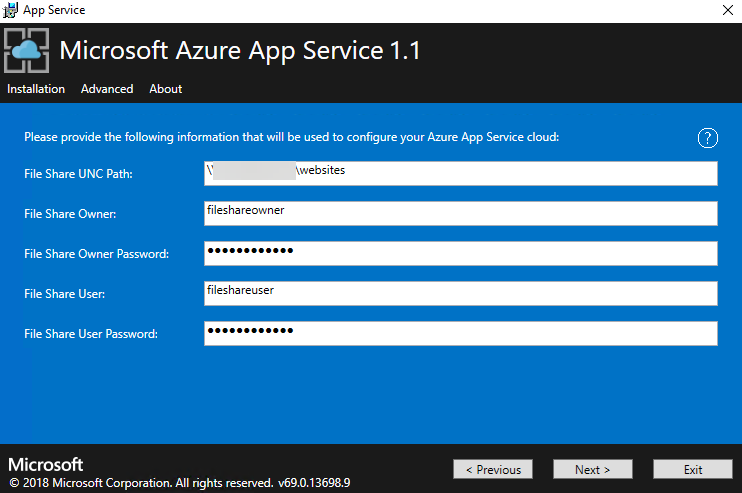
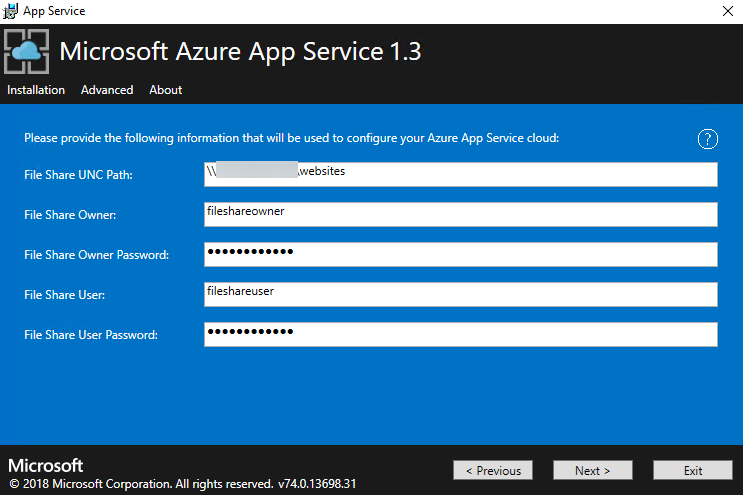
updates

diff --git a/Hands-on lab/HOL step-by-step - Azure Stack.md b/Hands-on lab/HOL step-by-step - Azure Stack.md
@@ -37,8 +37,9 @@ Microsoft and the trademarks listed at https://www.microsoft.com/en-us/legal/int
             - [Sub Task 2: Create App Service Scripts](#sub-task-2-create-app-service-scripts)
             - [Sub Task 3: Deploy Supporting File Server](#sub-task-3-deploy-supporting-file-server)
             - [Sub Task 4: Deploying a Supporting SQL Server](#sub-task-4-deploying-a-supporting-sql-server)
-            - [Sub Task 5: Setup Application Identity](#sub-task-5-setup-application-identity)
-            - [Sub Task 6: Install the App Service Resource Provider](#sub-task-6-install-the-app-service-resource-provider)
+            - [Sub Task 5: Enable Contained Database Authentication](#sub-task-5-enable-contained-database-authentication)
+            - [Sub Task 6: Setup Application Identity](#sub-task-6-setup-application-identity)
+            - [Sub Task 7: Install the App Service Resource Provider](#sub-task-7-install-the-app-service-resource-provider)
         - [Task 2: Deploy the Azure Stack SQL DB Resource Provider](#task-2-deploy-the-azure-stack-sql-db-resource-provider)
         - [Task 3: Create Azure Stack Deployment Taxonomy for Tenets](#task-3-create-azure-stack-deployment-taxonomy-for-tenets)
     - [Exercise 2: Deploy the SQL Hosting Server and DB on Azure Stack](#exercise-2-deploy-the-sql-hosting-server-and-db-on-azure-stack)
@@ -112,11 +113,6 @@ Duration: 2-3 hours
 
 In this exercise, you will configure the Azure Stack environment for the lab. You will install the resource providers for Azure SQL Database and Azure App Service, from there you will configure the taxonomy for the Azure Stack hands-on lab.
 
-    > **Tip**: To minimize prompts from PowerShell, set your execution policy to bypass.
-
-    ```
-    Set-ExecutionPolicy -ExecutionPolicy Bypass -Scope CurrentUser.
-    ```
 
 ### Task 1: Deploy the Azure Stack App Service Resource Provider
 
@@ -126,9 +122,9 @@ In this exercise, you will configure the Azure Stack environment for the lab. Yo
 
     ![Screenshot of Azure Stack Host File Explorer.](images/Hands-onlabstep-by-step-AzureStackimages/media/image24.png "Azure Stack Host File Explorer")
 
-The following screenshot shows the installer executable:
+    The following screenshot shows the installer executable:
 
-![In the Azure Stack Host File Explorer, a callout points to the AppService executable.](images/Hands-onlabstep-by-step-AzureStackimages/media/image25.png "Azure Stack Host File Explorer")
+    ![In the Azure Stack Host File Explorer, a callout points to the AppService executable.](images/Hands-onlabstep-by-step-AzureStackimages/media/image25.png "Azure Stack Host File Explorer")
 
 #### Sub Task 2: Create App Service Scripts
 
@@ -192,7 +188,7 @@ When prompted use the following values:
 
 5.  Use **AzSHOLFS** as the new resource group name and click **Create**. It may take 10-15 minutes to complete provisioning.
 
-    **Note:** The ARM template automatically creates the local users needed for the App Service Resource Provider.
+    > **Note:** The ARM template automatically creates the local users needed for the App Service Resource Provider.
 
 6.  After the template deployment is complete, open the new virtual machine from clicking on **Virtual Machines, FileServerVM** and Note the Public IP address/DNS name label for later reference
 
@@ -256,11 +252,9 @@ When prompted use the following values:
 
     ![In the Create virtual machine blade, Basics is selected. In the Basics blade, the previously mentioned fields are set.](images/Hands-onlabstep-by-step-AzureStackimages/media/image32.png "Create virtual machine and Basics blades")
 
-3.  Find and select A3 Standard as the virtual machine size and click **Select**
+3.  Search for A3 and then select A3 Standard as the virtual machine size and click **Select**
 
-    -   ![A3 Standard is selected.](images/Hands-onlabstep-by-step-AzureStackimages/media/image33.png "A3 Standard virtual mchine size")
-
-4.  On the Settings blade, click **Network security group (firewall)** and then click **+ Add an inbound rule.** Change the service to **MS SQL** and click **OK** until you are back to the settings blade.
+4.  On the Settings blade, click **Network security group (firewall)** and then click **+ Add an inbound rule.** Click **Basic** to change to **Advanced**, and then change the service to **MS SQL** and click **OK** until you are back to the settings blade.
 
     ![Fields in the Settings blade Add inbound security rule section are set to the previously defined settings.](images/Hands-onlabstep-by-step-AzureStackimages/media/image34.png "Settings blade")
 
@@ -282,7 +276,42 @@ When prompted use the following values:
 
 9.  Note the Public IP address of the VM for later reference
 
-#### Sub Task 5: Setup Application Identity
+#### Sub Task 5: Enable Contained Database Authentication
+
+> **Note**: The Azure App Service resource provider requires that the SQL Server be configured for contained database authentication. 
+
+1. In PowerShell ISE paste in the following script and replace the placeholder text with the public IP address of the SQL Server. 
+
+    ```
+    $dataSource = "[replace with SQL Server IP]"
+    $database = "Master"
+
+    $sqlText = @"
+    sp_configure 'contained database authentication', 1;
+    RECONFIGURE;
+    "@
+
+
+    $connectionString = "Data Source=$dataSource; " +
+            "user id=sqlserveradmin; password=demo@pass123;" +
+            "Initial Catalog=$database" 
+
+    $connection = new-object system.data.SqlClient.SQLConnection($connectionString)
+    $command = new-object system.data.sqlclient.sqlcommand($sqlCommand,$connection)
+    $connection.Open()
+    $sqlCommand = new-object System.Data.SqlClient.SqlCommand
+    $sqlCommand.CommandTimeout = 120
+    $sqlCommand.Connection = $connection
+    $sqlCommand.CommandText= $sqlText
+    $sqlCommand.ExecuteReader()
+    $connection.Close()
+
+    ```
+2. Click the green arrow (play) button to execute the script. 
+
+
+
+#### Sub Task 6: Setup Application Identity
 
 1.  Switch back to the Azure Stack host to configure an Azure AD Service Principal for Azure Functions.
 
@@ -320,17 +349,18 @@ When prompted specify the following:
 
 6.  Select the **App Service** returned from search results and then click **Settings -\> Required Permissions**
 
-    ![Screenshot of the App Service and Settings blades.](images/Hands-onlabstep-by-step-AzureStackimages/media/image39.png "App Service and Settings blades")
 
 7.  Select **Grant Permissions** and click **Yes**
 
-#### Sub Task 6: Install the App Service Resource Provider
+
+#### Sub Task 7: Install the App Service Resource Provider
 
 1.  Next start the Azure Stack App Service resource provider deployment by navigating to C:\\HOL folder using File Explorer, and double click the **AppService.msi** file to start the installation
 
 2.  Click **Deploy App Service or upgrade to the latest version**
 
-    ![In the Microsoft Azure App Service 1.1 window, the Deploy App Service or upgrade to the latest version radio button is called out.](images/Hands-onlabstep-by-step-AzureStackimages/media/image40.png "App Service window")
+    ![In the Microsoft Azure App Service 1.3 window, the Deploy App Service or upgrade to the latest version radio button is called out.](imags/hands-onlabstep-by-step-AzureStackimages/media/image40.png "App Service window")
+
 
 3.  Review and accept the Microsoft Software License Terms and then click **Next**
 
@@ -342,11 +372,11 @@ When prompted specify the following:
 
 6.  Click Connect, and then specify your Azure subscription information. After logging in, click the dropdown by the subscription and location dropdown to specify the correct configuration.
 
-    ![Fields in the Microsoft Azure App Service 1.1 window display Azure App Service information.](images/Hands-onlabstep-by-step-AzureStackimages/media/image42.png "Microsoft Azure App Service 1.1 window")
+    ![Fields in the Microsoft Azure App Service 1.3 window display Azure App Service information.](images/Hands-onlabstep-by-step-AzureStackimages/media/image42.png "Microsoft Azure App Service 1.3 window")
 
 7.  Accept the defaults on the network configuration by clicking next
 
-    ![Microsoft Azure App Service 1.1 network configuration fields display.](images/Hands-onlabstep-by-step-AzureStackimages/media/image43.png "Microsoft Azure App Service 1.1 window")
+    ![Microsoft Azure App Service 1.3 network configuration fields display.](images/Hands-onlabstep-by-step-AzureStackimages/media/image43.png "Microsoft Azure App Service 1.3 window")
 
 8.  Specify the following configuration for the file share:
 
@@ -360,41 +390,43 @@ When prompted specify the following:
 
 -   File Share User Password: demo\@pass123
 
-    ![Microsoft Azure App Service 1.1 fields are set to the previously defined settings.](images/Hands-onlabstep-by-step-AzureStackimages/media/image44.png "Microsoft Azure App Service 1.1 window")
+    ![Microsoft Azure App Service 1.3 fields are set to the previously defined settings.](images/Hands-onlabstep-by-step-AzureStackimages/media/image44.png  "Microsoft Azure App Service 1.3 window")
+
+
 
 9.  On the next screen, paste in the application id created earlier and specify the following certificate information:
 
--   Identity Application ID: your application id key created earlier
+    -   Identity Application ID: your application id key created earlier
 
--   Identity Application Certificate (\*.pfx): C:\\HOL\\AppServiceHelperScripts\\sso.appservice.local.azurestack.external.pfx
+    -   Identity Application Certificate (\*.pfx): C:\\HOL\\AppServiceHelperScripts\\sso.appservice.local.azurestack.external.pfx
 
--   Identity Application Certificate (\*.pfx) Password: demo\@pass123
+    -   Identity Application Certificate (\*.pfx) Password: demo\@pass123
 
--   Azure Resource Manager (ARM) root certificate file (\*.cer): C:\\HOL\\AzureStackCertificationAuthory.cer
+    -   Azure Resource Manager (ARM) root certificate file (\*.cer): C:\\HOL\\AzureStackCertificationAuthority.cer
 
-    ![The Microsoft Azure App Service 1.1 fields are set to the previously defined settings.](images/Hands-onlabstep-by-step-AzureStackimages/media/image45.png "Microsoft Azure App Service 1.1 window")
+    ![The Microsoft Azure App Service 1.3 fields are set to the previously defined settings.](images/Hands-onlabstep-by-step-AzureStackimages/media/image45.png "Microsoft Azure App Service 1.3 window")
 
 10. On the next page you will specify the remaining certificates:
 
--   App Service default SSL certificate file (\*.pfx) : C:\\HOL\\AppServiceHelperScripts\\\_.appservice.local.azurestack.external.pfx
+    -   App Service default SSL certificate file (\*.pfx) : C:\\HOL\\AppServiceHelperScripts\\\_.appservice.local.azurestack.external.pfx
 
--   App Service API SSL certificate file (\*.pfx): C:\\HOL\\AppServiceHelperScripts\\api.appservice.local.azurestack.external.pfx
+    -   App Service API SSL certificate file (\*.pfx): C:\\HOL\\AppServiceHelperScripts\\api.appservice.local.azurestack.external.pfx
 
--   App Service Publisher certificate file (\*.pfx): C:\\HOL\\AppServiceHelperScripts\\ftp.appservice.local.azurestack.external.pfx
+    -   App Service Publisher certificate file (\*.pfx): C:\\HOL\\AppServiceHelperScripts\\ftp.appservice.local.azurestack.external.pfx
 
-    ![The Microsoft Azure App Service 1.1 fields are set to the previously defined settings.](images/Hands-onlabstep-by-step-AzureStackimages/media/image46.png "Microsoft Azure App Service 1.1 window")
+    ![The Microsoft Azure App Service 1.3 fields are set to the previously defined settings.](images/Hands-onlabstep-by-step-AzureStackimages/media/image46.png "Microsoft Azure App Service 1.3 window")
 
 11. On the next screen, specify the public IP and the credentials for your SQL Server VM and click **Next**
 
-    ![The Microsoft Azure App Service 1.1 fields are set to the previously defined settings.](images/Hands-onlabstep-by-step-AzureStackimages/media/image47.png "Microsoft Azure App Service 1.1 window")
+    ![The Microsoft Azure App Service 1.3 fields are set to the previously defined settings.](images/Hands-onlabstep-by-step-AzureStackimages/media/image47.png  "Microsoft Azure App Service 1.3 window")
 
 12. Accept the defaults for the VMs to provision for the App Service resource provider by clicking **Next**
 
-    ![The Microsoft Azure App Service 1.1 fields are set to the default settings.](images/Hands-onlabstep-by-step-AzureStackimages/media/image48.png "Microsoft Azure App Service 1.1 window")
+    ![The Microsoft Azure App Service 1.3 fields are set to the default settings.](images/Hands-onlabstep-by-step-AzureStackimages/media/image48.png "Microsoft Azure App Service 1.3 window")
 
 13. Except the default for the platform image by clicking **Next**
 
-    ![The default platform image displays in the Microsoft Azure App Service 1.1 window.](images/Hands-onlabstep-by-step-AzureStackimages/media/image49.png "Microsoft Azure App Service 1.1 window")
+    ![The default platform image displays in the Microsoft Azure App Service 1.3 window.](images/Hands-onlabstep-by-step-AzureStackimages/media/image49.png  "Microsoft Azure App Service 1.3 window")
 
 14. Specify the following user account for both administrator accounts and click Next
 
@@ -402,11 +434,11 @@ When prompted specify the following:
 
 -   Password: demo\@pass123
 
-    ![The Microsoft Azure App Service 1.1 fields are set to the previously defined settings.](images/Hands-onlabstep-by-step-AzureStackimages/media/image50.png "Microsoft Azure App Service 1.1 window")
+    ![The Microsoft Azure App Service 1.3 window displays the roles and passwords for the app service cloud.](images/Hands-onlabstep-by-step-AzureStackimages/media/image49.png "Microsoft Azure App Service 1.3 window")
 
 15. Click the Checkbox next to Select and click next to start the deployment and then click **Next**
 
-    ![The Microsoft Azure App Service 1.1 window displays with a summary of settings.](images/Hands-onlabstep-by-step-AzureStackimages/media/image51.png "Microsoft Azure App Service 1.1 window")
+    ![The Microsoft Azure App Service 1.1 window displays with a summary of settings.](images/Hands-onlabstep-by-step-AzureStackimages/media/image51.png "Microsoft Azure App Service 1.3 window")
 
 16. The final step is to validate the App Service on Azure Stack installation. TO validate the App Service installation perform the following 2 steps:
 
@@ -433,7 +465,7 @@ https://docs.microsoft.com/en-us/azure/azure-stack/azure-stack-sql-resource-prov
 
 5.  From this webpage, download the version of the SQL Resource Provider that matches your version of Azure Stack
 
-    ![The SQL Resource Provider version link is selected in the Azure Stack build section.](images/Hands-onlabstep-by-step-AzureStackimages/media/image55.png "Azure Stack build section")
+    ![The SQL Resource Provider version link is selected in the Azure Stack build section.](images/Hands-onlabstep-by-step-AzureStackimages/media/image55.png  "Azure Stack build section")
 
 6.  Once it is downloaded, using Windows Explorer on the Azure Stack Host, navigate to your downloads directory. Double click the file to install the package. You will need to click **Run** at the Security Warning prompt.
 
@@ -457,13 +489,13 @@ https://docs.microsoft.com/en-us/azure/azure-stack/azure-stack-sql-resource-prov
     .\DeploySQLProvider.ps1
     ```
 
-![Command screenshot.](images/Hands-onlabstep-by-step-AzureStackimages/media/image59.png "Command")
+    ![Command screenshot.](images/Hands-onlabstep-by-step-AzureStackimages/media/image59.png "Command")
 
 11. At the **Privileged Endpoint** prompt, enter the **IP Address that you found using Hyper-V Manager**, and click **OK**. In the example the IP is **192.168.200.225.**
 
     ![Screenshot of the Priviledged Endpoint field with the IP address displaying.](images/Hands-onlabstep-by-step-AzureStackimages/media/image60.png "Priviledged Endpoint field")
 
-**Note**: The popup may appear the PowerShell ISE.
+    > **Note**: The popup may appear the PowerShell ISE.
 
 12. Next, you will be prompted for the **Azure Stack Cloud Admin** credential. Enter the following user name along with your password:
 
@@ -517,9 +549,8 @@ https://docs.microsoft.com/en-us/azure/azure-stack/azure-stack-sql-resource-prov
 
 ![Screenshot of an Azure Stack Deployment Taxonomy.](images/Hands-onlabstep-by-step-AzureStackimages/media/image69.png "Azure Stack Deployment Taxonomy")
 
-1.  Click **+New** in the Azure Stack Admin portal
+1.  Click **+Create a resource** in the Azure Stack Admin portal
 
-    ![The New button is selected.](images/Hands-onlabstep-by-step-AzureStackimages/media/image67.png "New button")
 
 2.  Click **Offers + Plans** followed by **Plan**
 
